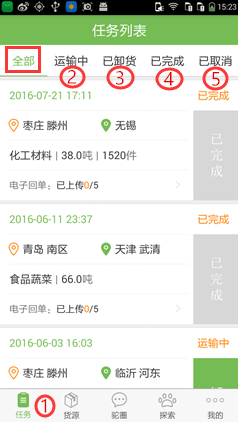
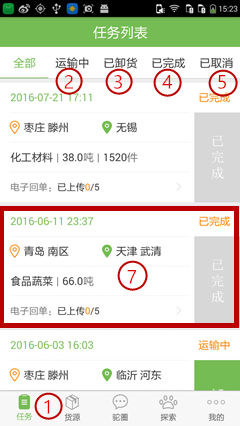
Updates 司机/任务/全部.md
Auto commit by GitBook Editor

diff --git a/司机/任务/全部.md b/司机/任务/全部.md
@@ -12,21 +12,19 @@
 
 ##### ⑤点击已取消→展示该账号已被取消的任务
 
-##### ![](/assets/w.png)
-
 ##### ⑥点击任务详情→进入1.2任务详情列表（转）
+
+
 
 ##### 列表任务详情展示内容：
 
-##### ①运单开始时间
+##### ⑦2016-06-11 23:37→运单开始时间
 
-##### ②发货地
+##### 青岛 南区→发货地
 
-##### ③目的地
+##### 天津 武清→目的地
 
-##### ④类目\/重量\/数量
+##### 食品蔬菜→类目\/重量\/数量
 
-![](/assets/e.png)
-
-
+![](/assets/w.png)
 
